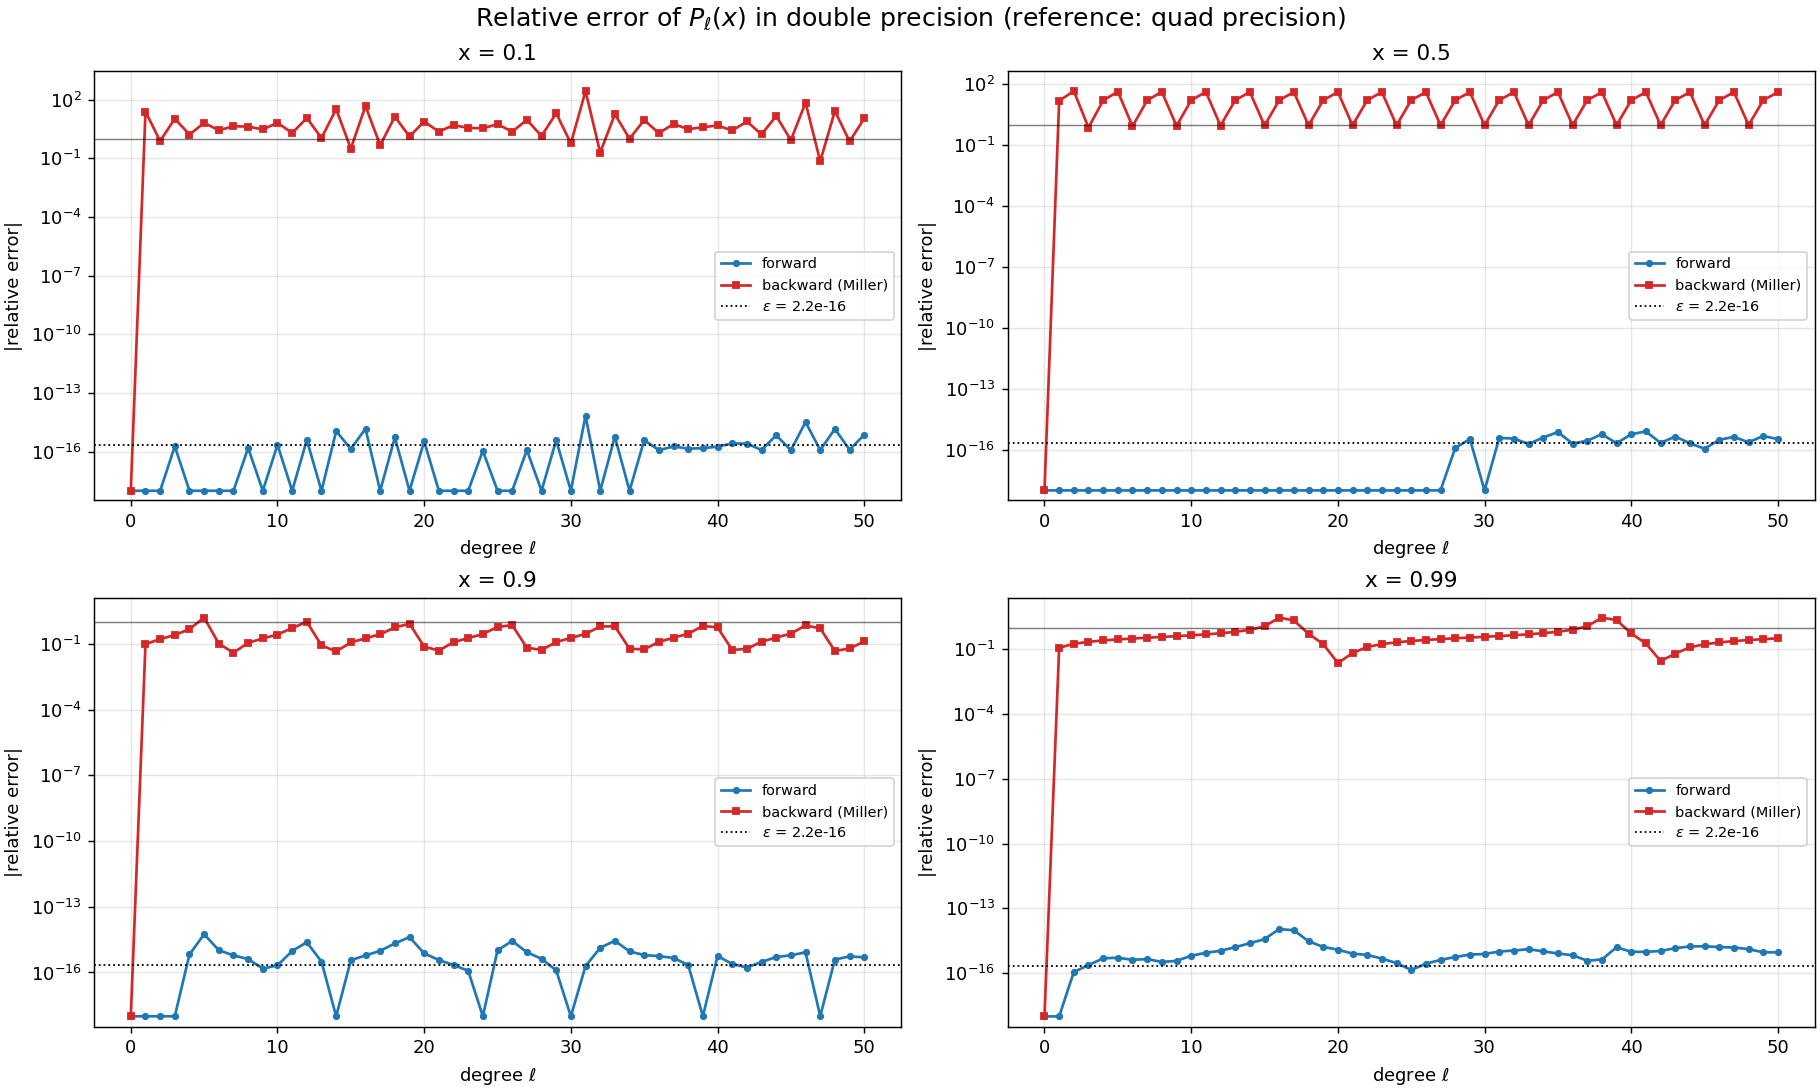
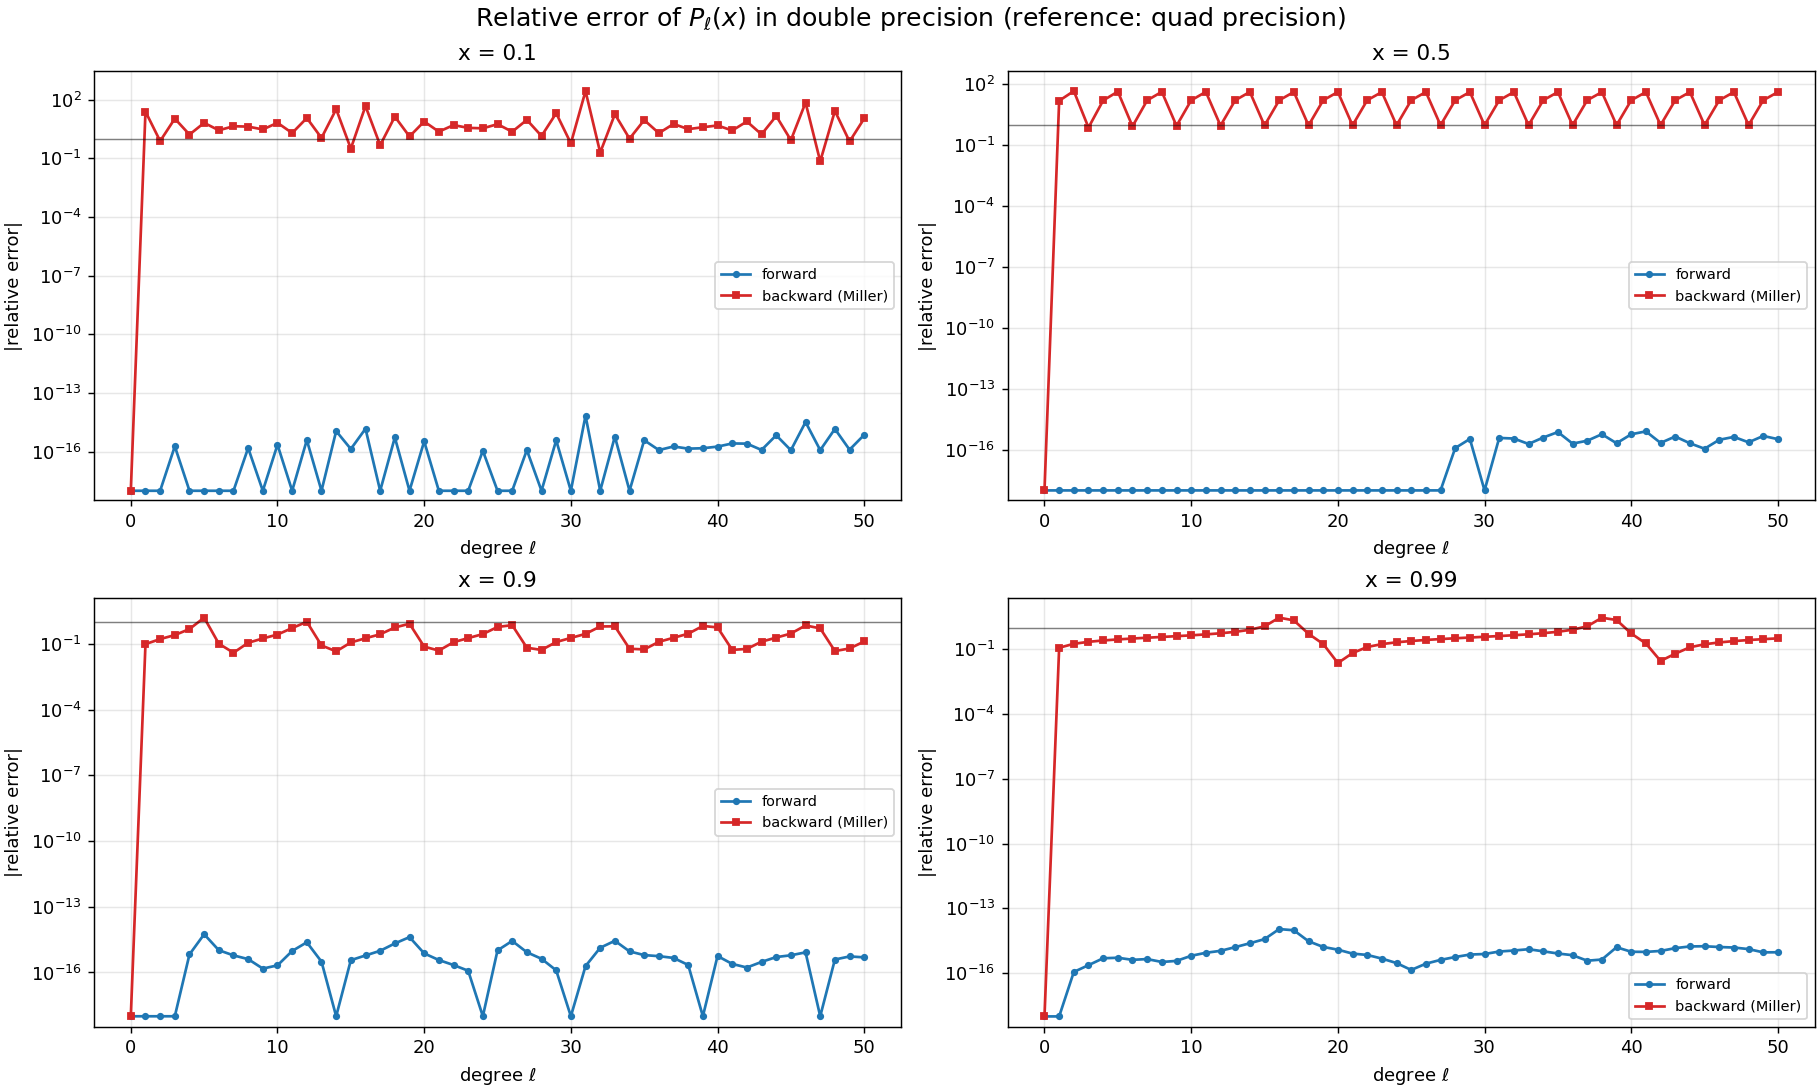
fixing

diff --git a/HomeWork5/legendre_stability/plot_legendre.py b/HomeWork5/legendre_stability/plot_legendre.py
@@ -20,7 +20,6 @@ import matplotlib.pyplot as plt
 
 OUTPUT_DIR = Path("output")
 PLOT_DIR = Path("plots")
-EPS = 2.220446049250313e-16  # double precision machine epsilon
 FLOOR = 1e-18                # errors that are exactly 0 are drawn at this level
 
 FORWARD = dict(color="tab:blue", marker="o", markersize=3, linewidth=1.5, label="forward")
@@ -62,7 +61,6 @@ def error_figure(files, kind, filename):
         d = read(path)
         ax.semilogy(d["l"], abs_or_floor(d[f"{kind}_err_forward"]), **FORWARD)
         ax.semilogy(d["l"], abs_or_floor(d[f"{kind}_err_backward"]), **BACKWARD)
-        ax.axhline(EPS, color="black", linestyle=":", linewidth=1, label=r"$\varepsilon$ = 2.2e-16")
         ax.axhline(1.0, color="black", linewidth=0.8, alpha=0.5)
         ax.set_title(f"x = {d['x'][0]:g}")
         ax.set_xlabel(r"degree $\ell$")
